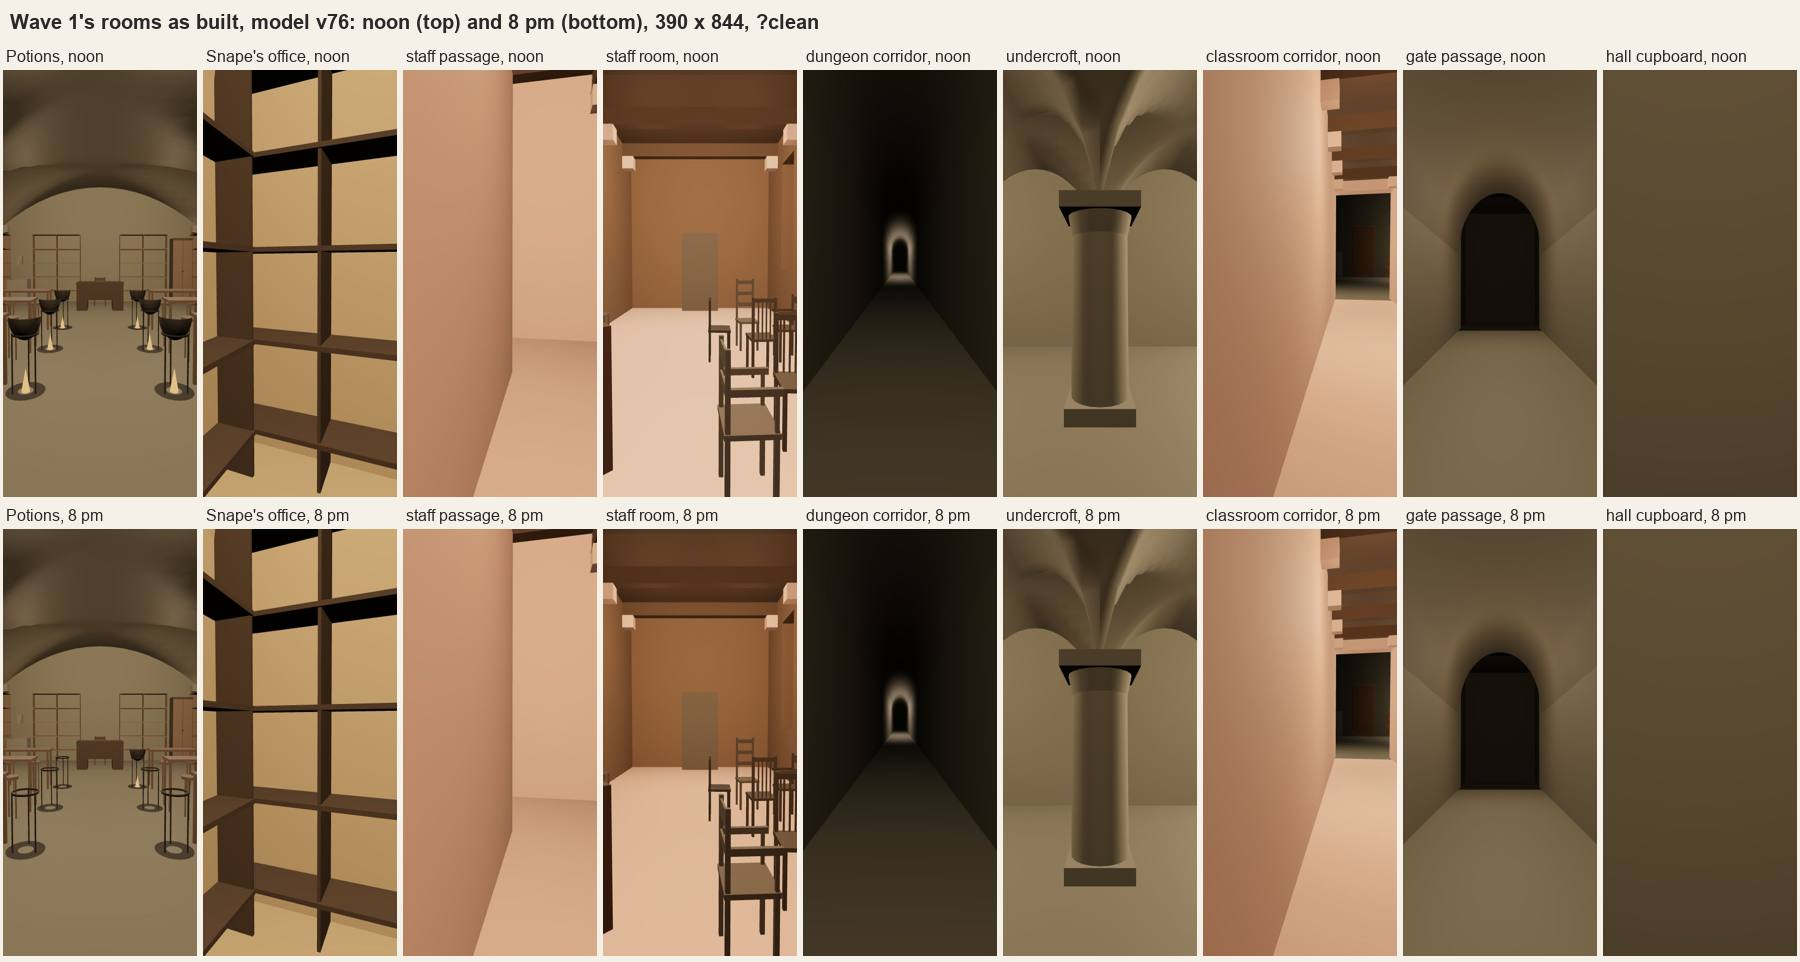
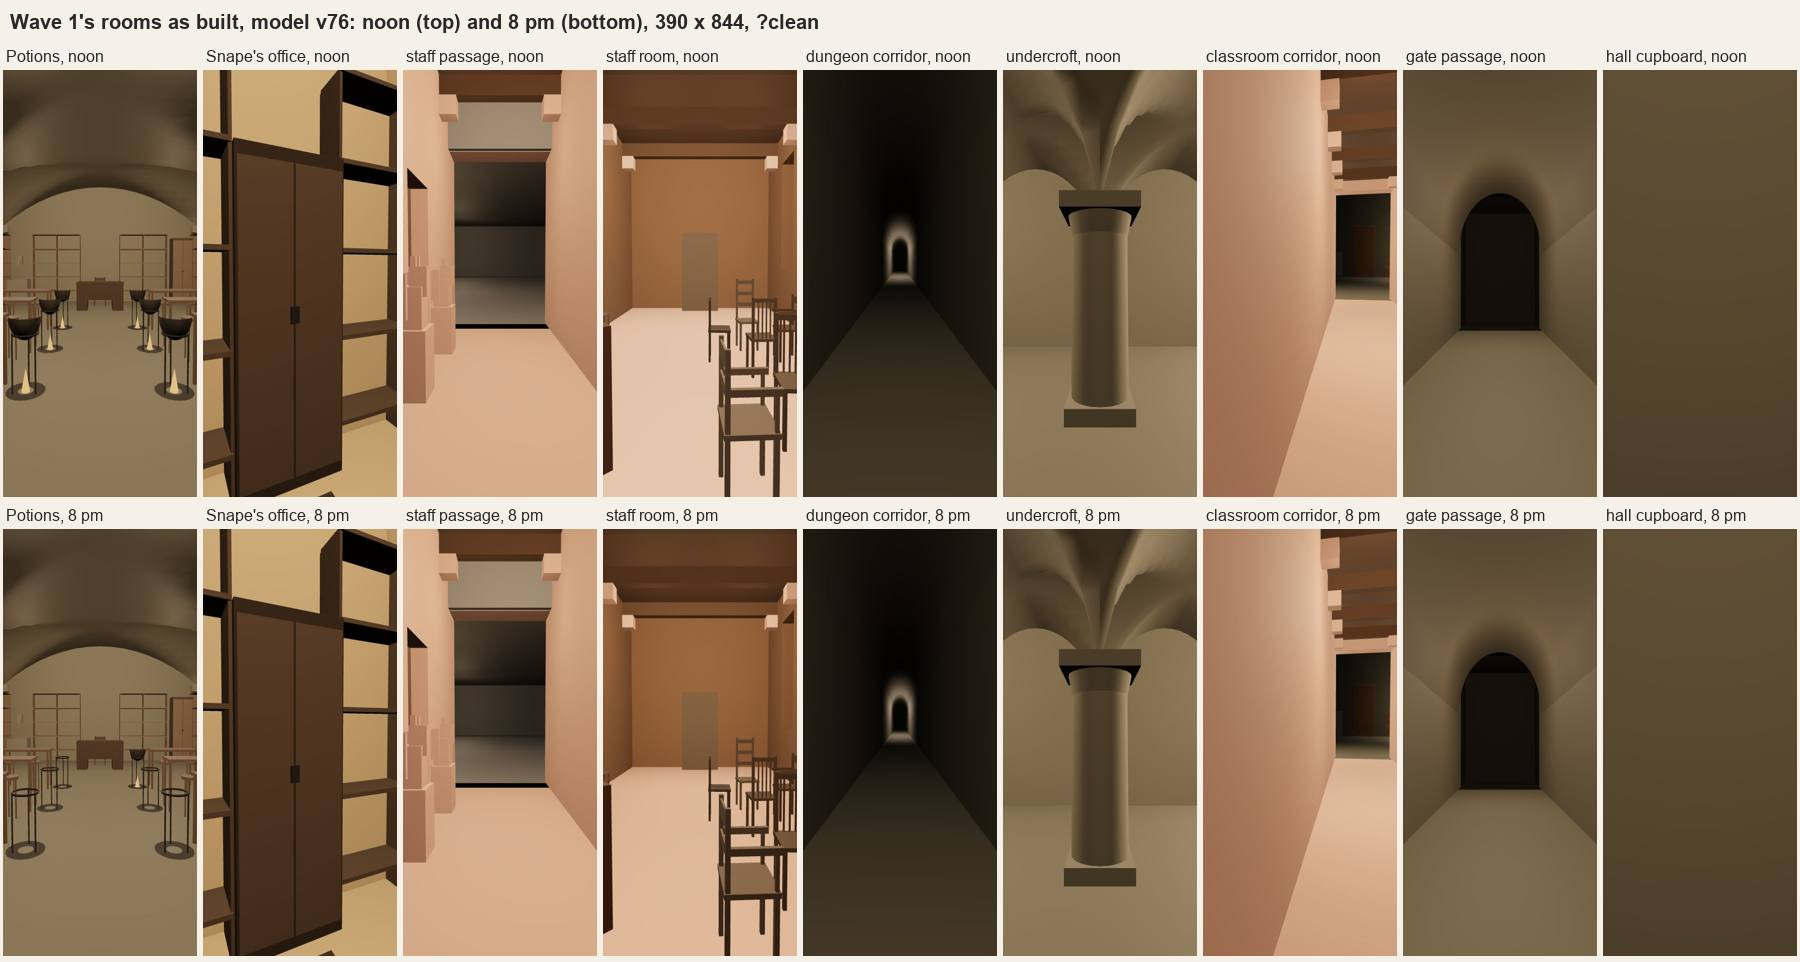
Wave 1's starts: the staff passage at its mouth, Snape's office turned to his stores; the review sheet

Changed region(s): [[0.0933, 0.0624, 0.3422, 0.9979]]

diff --git a/page/shell.html b/page/shell.html
@@ -201,7 +201,8 @@ var MROOMS = (MODEL && MODEL.rooms) || [];
 MROOMS.forEach(function (r) { if ((r.alias || []).indexOf(PLACE) >= 0) PLACE = r.id; });
 var NEVER = MROOMS.some(function (r) { return r.id === PLACE && r.shell === 'never'; });
 /* each place's start on a plain load: the way he first comes in by */
-var STARTS = { 'entrance-hall': 'front-doors', 'stair-hall': 'well-mouth', 'tapestry-stairwell': 'tapestry-stair-1' };
+var STARTS = { 'entrance-hall': 'front-doors', 'stair-hall': 'well-mouth', 'tapestry-stairwell': 'tapestry-stair-1',
+  'staff-passage': 'staff-passage-mouth' };   /* at the passage's mouth looking along it, not at the staff room's door across it */
 
 var kit = window.castleFrame ? castleFrame({
   background: 0x0b0a09, fog: 0.012,
@@ -376,6 +377,12 @@ function limits(s) {
   return { yaw: L.turn >= 180 ? null : L.turn * D2R, lo: Math.min(0, L.down * D2R - el0), hi: Math.max(0, Math.min(88 * D2R, L.up * D2R) - el0) };
 }
 var START = shell.stands[0], here = START, hy = 0, hp = 0, hyT = 0, hpT = 0, tween = null, legs = [], lookTmp = new THREE.Vector3();
+/* wave 1's Apparate shots (20 October 2026, the Architect's forty-seventh, Fawkes's yes): a room whose one door leaves
+   the start facing a near wall turns it into the room (degrees, as a head turn), only when he comes by no door (?place= alone) */
+var START_TURN = { 'snape-office': -45 };   /* his private stores' cupboard between the shelves */
+if (!kit.from && START_TURN[PLACE]) {
+  START.look = START.pos.clone().add(START.look.clone().sub(START.pos).applyAxisAngle(new THREE.Vector3(0, 1, 0), START_TURN[PLACE] * Math.PI / 180));
+}
 /* v10 of the shells: a hidden opening seen from its outer side is wall with an unseen tap over it (Events' req 534:
    `tap keep-east-stair-panel-3` from the stair hall); a tap there walks him to it, a second is its id to the events */
 var things = shell.doors.concat(shell.ways, shell.hidden || []), tappables = things.map(function (d) { return d.mesh; });
